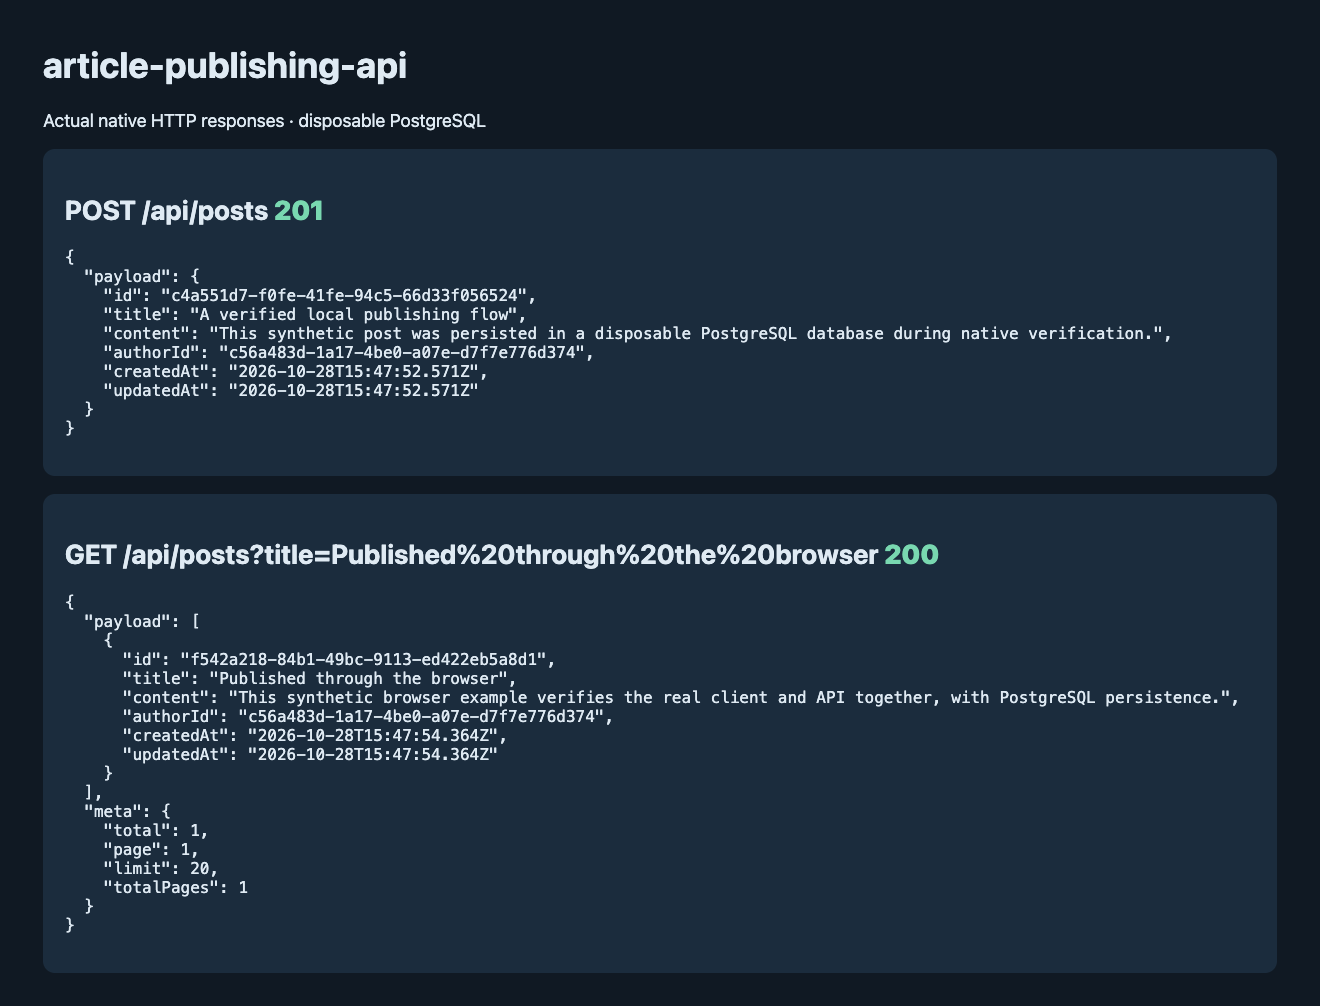
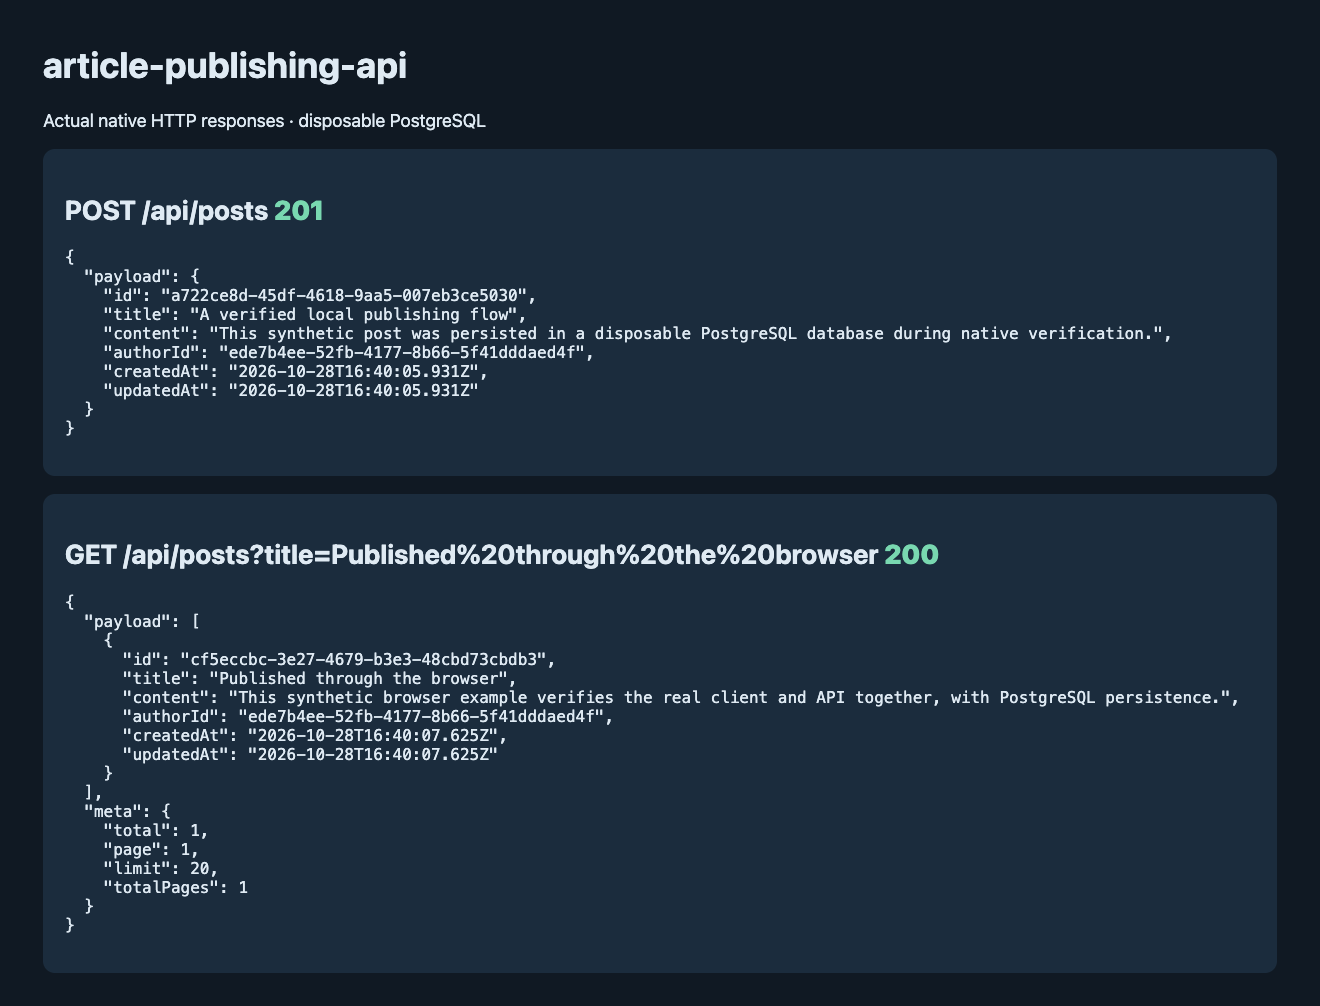
Refresh the verified native publishing API evidence

diff --git a/README.md b/README.md
@@ -94,3 +94,7 @@ built client; access tokens are omitted from the response record.
 
 CI creates an isolated PostgreSQL 16 database, generates Prisma, runs the full
 suite, and builds on Node 22. Docker images remain unverified locally.
+
+## Author
+
+[**Muhammad Nadeem**](https://github.com/dev-mnadeem)
